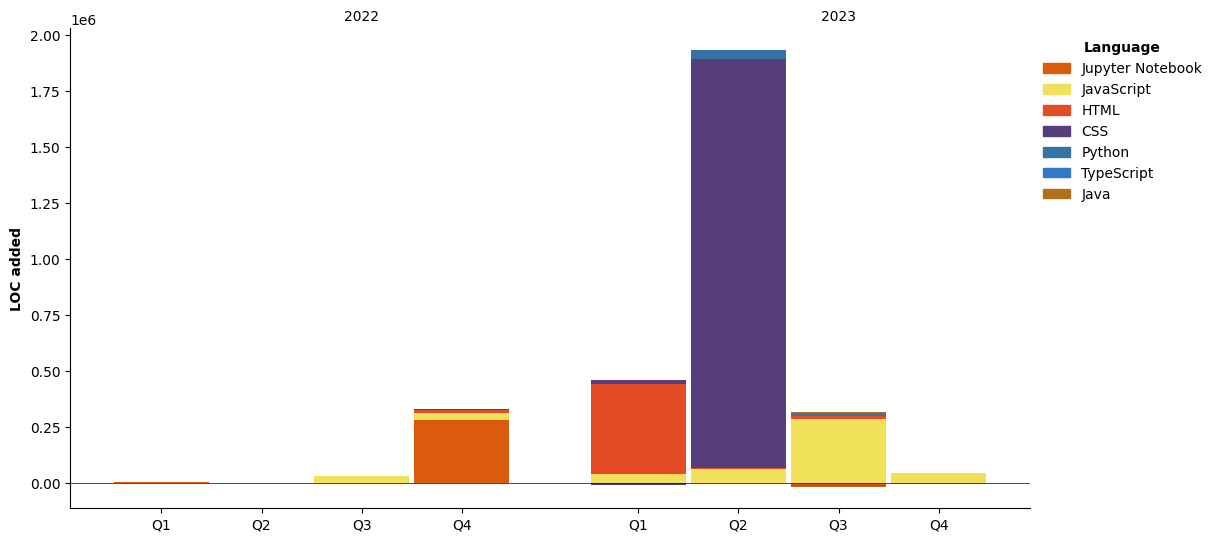
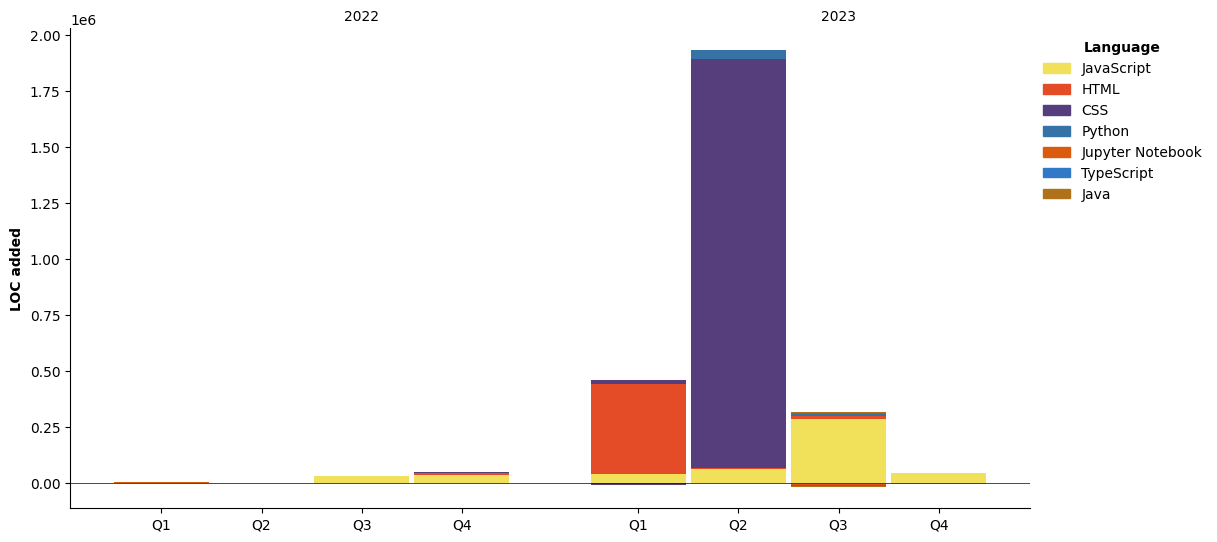
Updated with Dev Metrics

Changed region(s): [[0.8431, 0.1181, 0.9992, 0.2952], [0.3122, 0.738, 0.4371, 0.9151]]

diff --git a/README.md b/README.md
@@ -103,19 +103,87 @@
 
 -------
 <!--START_SECTION:waka-->
+![Code Time](http://img.shields.io/badge/Code%20Time-71%20hrs%2049%20mins-blue)
 
-```txt
-From: 01 October 2023 - To: 08 October 2023
+![Lines of code](https://img.shields.io/badge/From%20Hello%20World%20I%27ve%20Written-2.8%20million%20lines%20of%20code-blue)
 
-Total Time: 12 hrs 31 mins
+**🐱 My GitHub Data** 
 
-JavaScript   10 hrs 54 mins  █████████████████████▓░░░   87.09 %
-TypeScript   1 hr 18 mins    ██▓░░░░░░░░░░░░░░░░░░░░░░   10.39 %
-Go           9 mins          ▒░░░░░░░░░░░░░░░░░░░░░░░░   01.21 %
-CSS          4 mins          ░░░░░░░░░░░░░░░░░░░░░░░░░   00.54 %
-HTML         3 mins          ░░░░░░░░░░░░░░░░░░░░░░░░░   00.53 %
+> 📦 180.6 kB Used in GitHub's Storage 
+ > 
+> 🏆 603 Contributions in the Year 2023
+ > 
+> 🚫 Not Opted to Hire
+ > 
+> 📜 96 Public Repositories 
+ > 
+> 🔑 0 Private Repositories 
+ > 
+**I'm a Night 🦉** 
+
+```text
+🌞 Morning                176 commits         ⬛⬛⬛⬛⬜⬜⬜⬜⬜⬜⬜⬜⬜⬜⬜⬜⬜⬜⬜⬜⬜⬜⬜⬜⬜   14.55 % 
+🌆 Daytime                340 commits         ⬛⬛⬛⬛⬛⬛⬛⬜⬜⬜⬜⬜⬜⬜⬜⬜⬜⬜⬜⬜⬜⬜⬜⬜⬜   28.10 % 
+🌃 Evening                524 commits         ⬛⬛⬛⬛⬛⬛⬛⬛⬛⬛⬛⬜⬜⬜⬜⬜⬜⬜⬜⬜⬜⬜⬜⬜⬜   43.31 % 
+🌙 Night                  170 commits         ⬛⬛⬛⬛⬜⬜⬜⬜⬜⬜⬜⬜⬜⬜⬜⬜⬜⬜⬜⬜⬜⬜⬜⬜⬜   14.05 % 
+```
+📅 **I'm Most Productive on Sunday** 
+
+```text
+Monday                   150 commits         ⬛⬛⬛⬜⬜⬜⬜⬜⬜⬜⬜⬜⬜⬜⬜⬜⬜⬜⬜⬜⬜⬜⬜⬜⬜   12.40 % 
+Tuesday                  163 commits         ⬛⬛⬛⬜⬜⬜⬜⬜⬜⬜⬜⬜⬜⬜⬜⬜⬜⬜⬜⬜⬜⬜⬜⬜⬜   13.47 % 
+Wednesday                115 commits         ⬛⬛⬜⬜⬜⬜⬜⬜⬜⬜⬜⬜⬜⬜⬜⬜⬜⬜⬜⬜⬜⬜⬜⬜⬜   09.50 % 
+Thursday                 98 commits          ⬛⬛⬜⬜⬜⬜⬜⬜⬜⬜⬜⬜⬜⬜⬜⬜⬜⬜⬜⬜⬜⬜⬜⬜⬜   08.10 % 
+Friday                   155 commits         ⬛⬛⬛⬜⬜⬜⬜⬜⬜⬜⬜⬜⬜⬜⬜⬜⬜⬜⬜⬜⬜⬜⬜⬜⬜   12.81 % 
+Saturday                 243 commits         ⬛⬛⬛⬛⬛⬜⬜⬜⬜⬜⬜⬜⬜⬜⬜⬜⬜⬜⬜⬜⬜⬜⬜⬜⬜   20.08 % 
+Sunday                   286 commits         ⬛⬛⬛⬛⬛⬛⬜⬜⬜⬜⬜⬜⬜⬜⬜⬜⬜⬜⬜⬜⬜⬜⬜⬜⬜   23.64 % 
 ```
 
+
+📊 **This Week I Spent My Time On** 
+
+```text
+🕑 Time Zone: Asia/Kolkata
+
+💬 Programming Languages: 
+JavaScript               10 hrs 54 mins      ⬛⬛⬛⬛⬛⬛⬛⬛⬛⬛⬛⬛⬛⬛⬛⬛⬛⬛⬛⬛⬛⬛⬜⬜⬜   87.09 % 
+TypeScript               1 hr 18 mins        ⬛⬛⬛⬜⬜⬜⬜⬜⬜⬜⬜⬜⬜⬜⬜⬜⬜⬜⬜⬜⬜⬜⬜⬜⬜   10.39 % 
+Go                       9 mins              ⬜⬜⬜⬜⬜⬜⬜⬜⬜⬜⬜⬜⬜⬜⬜⬜⬜⬜⬜⬜⬜⬜⬜⬜⬜   01.21 % 
+CSS                      4 mins              ⬜⬜⬜⬜⬜⬜⬜⬜⬜⬜⬜⬜⬜⬜⬜⬜⬜⬜⬜⬜⬜⬜⬜⬜⬜   00.54 % 
+HTML                     3 mins              ⬜⬜⬜⬜⬜⬜⬜⬜⬜⬜⬜⬜⬜⬜⬜⬜⬜⬜⬜⬜⬜⬜⬜⬜⬜   00.53 % 
+
+🔥 Editors: 
+VS Code                  12 hrs 31 mins      ⬛⬛⬛⬛⬛⬛⬛⬛⬛⬛⬛⬛⬛⬛⬛⬛⬛⬛⬛⬛⬛⬛⬛⬛⬛   100.00 % 
+
+🐱💻 Projects: 
+Event-management-portal  10 hrs 46 mins      ⬛⬛⬛⬛⬛⬛⬛⬛⬛⬛⬛⬛⬛⬛⬛⬛⬛⬛⬛⬛⬛⬛⬜⬜⬜   86.02 % 
+portfolionext            1 hr 26 mins        ⬛⬛⬛⬜⬜⬜⬜⬜⬜⬜⬜⬜⬜⬜⬜⬜⬜⬜⬜⬜⬜⬜⬜⬜⬜   11.49 % 
+Rumman Fardeen           13 mins             ⬜⬜⬜⬜⬜⬜⬜⬜⬜⬜⬜⬜⬜⬜⬜⬜⬜⬜⬜⬜⬜⬜⬜⬜⬜   01.74 % 
+Client                   3 mins              ⬜⬜⬜⬜⬜⬜⬜⬜⬜⬜⬜⬜⬜⬜⬜⬜⬜⬜⬜⬜⬜⬜⬜⬜⬜   00.43 % 
+SEDS v2                  2 mins              ⬜⬜⬜⬜⬜⬜⬜⬜⬜⬜⬜⬜⬜⬜⬜⬜⬜⬜⬜⬜⬜⬜⬜⬜⬜   00.29 % 
+
+💻 Operating System: 
+Windows                  12 hrs 31 mins      ⬛⬛⬛⬛⬛⬛⬛⬛⬛⬛⬛⬛⬛⬛⬛⬛⬛⬛⬛⬛⬛⬛⬛⬛⬛   100.00 % 
+```
+
+**I Mostly Code in JavaScript** 
+
+```text
+JavaScript               30 repos            ⬛⬛⬛⬛⬛⬛⬛⬛⬛⬜⬜⬜⬜⬜⬜⬜⬜⬜⬜⬜⬜⬜⬜⬜⬜   34.88 % 
+HTML                     26 repos            ⬛⬛⬛⬛⬛⬛⬛⬛⬜⬜⬜⬜⬜⬜⬜⬜⬜⬜⬜⬜⬜⬜⬜⬜⬜   30.23 % 
+CSS                      17 repos            ⬛⬛⬛⬛⬛⬜⬜⬜⬜⬜⬜⬜⬜⬜⬜⬜⬜⬜⬜⬜⬜⬜⬜⬜⬜   19.77 % 
+Python                   8 repos             ⬛⬛⬜⬜⬜⬜⬜⬜⬜⬜⬜⬜⬜⬜⬜⬜⬜⬜⬜⬜⬜⬜⬜⬜⬜   09.30 % 
+TypeScript               1 repo              ⬜⬜⬜⬜⬜⬜⬜⬜⬜⬜⬜⬜⬜⬜⬜⬜⬜⬜⬜⬜⬜⬜⬜⬜⬜   01.16 % 
+```
+
+
+
+**Timeline**
+
+![Lines of Code chart](https://raw.githubusercontent.com/srummanf/srummanf/main/assets/bar_graph.png)
+
+
+ Last Updated on 09/10/2023 18:40:19 UTC
 <!--END_SECTION:waka-->
 
 
